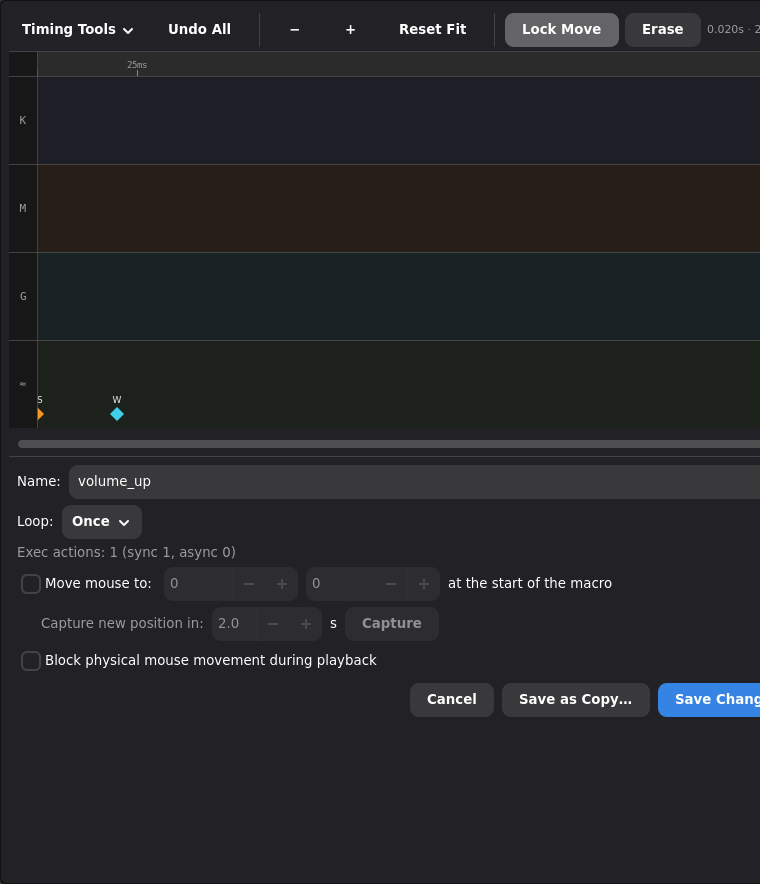
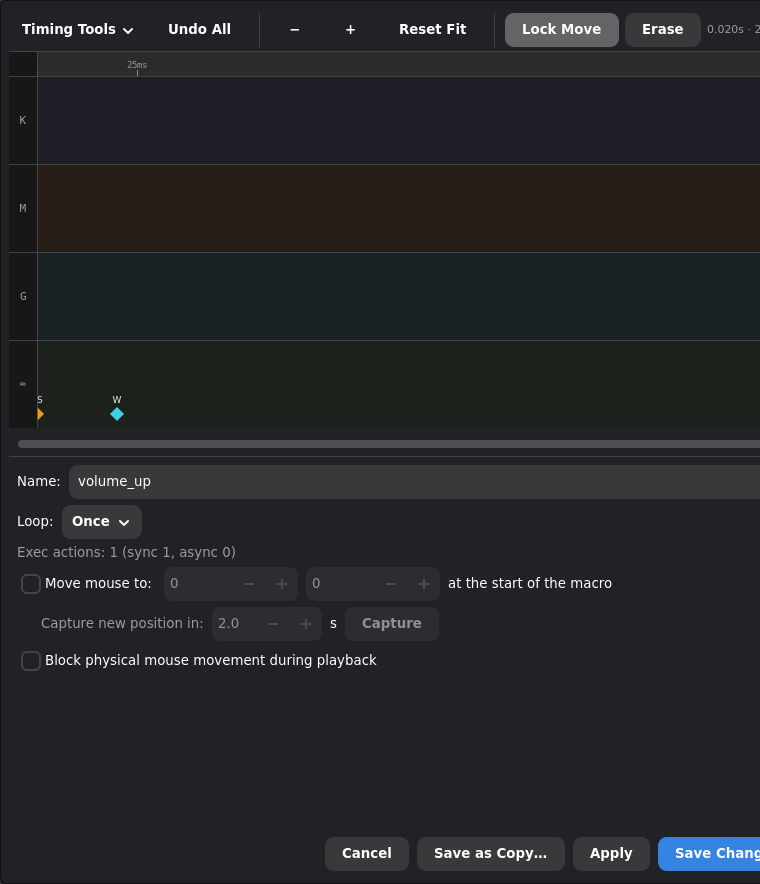
Add Apply button to macro editor for save-without-close
- Refactors save flow to support close_after_save flag
- Pins footer to bottom of side panel with vexpand spacer
- Updates docs and screenshots

diff --git a/tests/gui/test_macro_editor_dialog_widget.py b/tests/gui/test_macro_editor_dialog_widget.py
@@ -24,6 +24,7 @@ from keymasq.gui.widgets.macro_editor_dialog import (
     reconstruct_events,
 )
 from tests.gui.macro_editor_dialog_support import _build_macro_dialog
+from tests.gui.support import collect_widgets, iter_widget_children
 
 
 def _install_delayed_cursor_position_capture_harness(
@@ -705,6 +706,86 @@ def test_macro_editor_insert_delete_and_save_payload(monkeypatch) -> None:
         "macro_action": "wait",
         "duration_us": 80_000,
     } in payload["events"]
+
+
+def test_macro_editor_footer_is_pinned_and_includes_apply(monkeypatch) -> None:
+    dialog = _build_macro_dialog(monkeypatch)
+
+    frame = dialog.get_child()
+    assert isinstance(frame, Gtk.Frame)
+    root = frame.get_child()
+    children = list(iter_widget_children(root))
+    footer_spacer = children[-2]
+    footer = children[-1]
+
+    assert footer_spacer.get_vexpand() is True
+    assert footer.get_halign() == Gtk.Align.END
+    assert [
+        button.get_label()
+        for button in collect_widgets(footer, Gtk.Button, include_self=True)
+    ] == ["Cancel", "Save as Copy…", "Apply", "Save Changes"]
+
+
+def test_macro_editor_apply_saves_without_closing(monkeypatch) -> None:
+    from keymasq.gui.session_client import GuiTaskResult
+
+    dialog = _build_macro_dialog(monkeypatch)
+    dialog._macro_name = "demo_macro"
+    dialog._macro_exists = True
+    dialog._macro_data = {"name": "demo_macro", "revision": 2, "created_at": "old"}
+    dialog._duration_us = 4000
+    dialog._events = [
+        EditableEvent(
+            device_type="keyboard",
+            ev_type=evdev.ecodes.EV_KEY,
+            code=evdev.ecodes.KEY_A,
+            press_t_us=1000,
+            release_t_us=4000,
+        )
+    ]
+
+    requests: list[dict] = []
+    reloads: list[bool] = []
+    closed: list[bool] = []
+
+    def fake_session_request(payload):
+        requests.append(payload)
+        saved_macro = dict(payload["macro"])
+        saved_macro["revision"] = 3
+        return {"status": "ok", "macro": saved_macro}
+
+    def fake_run_gui_task(worker, callback, *, on_start=None, on_done=None) -> None:
+        if on_start is not None:
+            on_start()
+        callback(GuiTaskResult(value=worker()))
+        if on_done is not None:
+            on_done()
+
+    monkeypatch.setattr(macro_editor_dialog_module, "session_request", fake_session_request)
+    monkeypatch.setattr(macro_editor_dialog_module, "run_gui_task", fake_run_gui_task)
+    monkeypatch.setattr(
+        macro_editor_dialog_module,
+        "notify_session_reload_async",
+        lambda: reloads.append(True),
+    )
+    monkeypatch.setattr(
+        macro_editor_dialog_module.MacroEditorDialog,
+        "close",
+        lambda self: closed.append(True),
+    )
+
+    apply_btn = Gtk.Button(label="Apply")
+    dialog._on_apply(apply_btn)
+
+    assert requests[0]["command"] == "update_macro"
+    assert requests[0]["name"] == "demo_macro"
+    assert requests[0]["expected_revision"] == 2
+    assert dialog._macro_data["revision"] == 3
+    assert dialog._initial_macro_data["revision"] == 3
+    assert dialog._macro_name == "demo_macro"
+    assert reloads == [True]
+    assert closed == []
+    assert apply_btn.get_sensitive() is True
 
 
 def test_macro_editor_save_request_paths_and_undo(monkeypatch) -> None:

diff --git a/keymasq/gui/widgets/macro_editor/dialog.py b/keymasq/gui/widgets/macro_editor/dialog.py
@@ -715,7 +715,13 @@ class MacroEditorDialog(Adw.Dialog, MacroEditorPanelsMixin, MacroEditorAddPopove
     # Save / Save as copy
     # ------------------------------------------------------------------
 
-    def _on_save(self, btn) -> None:
+    def _on_save(self, btn: Gtk.Button) -> None:
+        self._save_current_macro(btn, close_after_save=True)
+
+    def _on_apply(self, btn: Gtk.Button) -> None:
+        self._save_current_macro(btn, close_after_save=False)
+
+    def _save_current_macro(self, btn: Gtk.Button, *, close_after_save: bool) -> None:
         new_name = self._name_entry.get_text().strip()
         if not self._validate_name_for_save(new_name):
             return
@@ -727,7 +733,12 @@ class MacroEditorDialog(Adw.Dialog, MacroEditorPanelsMixin, MacroEditorAddPopove
             return self._save_macro_request(new_name, macro_payload, revision)
 
         def on_save_finished(result: GuiTaskResult[JsonDict | None]) -> bool:
-            return self._on_save_finished(result, new_name)
+            return self._on_save_finished(
+                result,
+                new_name,
+                macro_payload,
+                close_after_save=close_after_save,
+            )
 
         def on_save_start() -> None:
             btn.set_sensitive(False)
@@ -782,15 +793,38 @@ class MacroEditorDialog(Adw.Dialog, MacroEditorPanelsMixin, MacroEditorAddPopove
         self,
         result: GuiTaskResult[JsonDict | None],
         requested_name: str,
+        requested_payload: dict,
+        *,
+        close_after_save: bool,
     ) -> bool:
         payload = result.value if result.ok and isinstance(result.value, dict) else {}
         if payload.get("status") != "ok":
             self._show_name_conflict(requested_name)
             return False
 
+        self._apply_saved_macro_state(payload, requested_name, requested_payload)
         notify_session_reload_async()
-        self.close()
+        if close_after_save:
+            self.close()
         return False
+
+    def _apply_saved_macro_state(
+        self,
+        save_response: JsonDict,
+        requested_name: str,
+        requested_payload: dict,
+    ) -> None:
+        saved_macro = save_response.get("macro")
+        if not isinstance(saved_macro, dict):
+            saved_macro = dict(requested_payload)
+
+        self._macro_data = copy.deepcopy(saved_macro)
+        saved_name = str(saved_macro.get("name", requested_name) or requested_name)
+        self._macro_name = saved_name
+        self._macro_exists = True
+        self._initial_macro_data = copy.deepcopy(saved_macro)
+        _set_entry_text_if_needed(self._name_entry, saved_name)
+        self.set_title(f"Edit macro ({saved_name})")
 
     def _on_save_as_copy(self, btn) -> None:
         dialog = Adw.Dialog(title="Save as Copy", content_width=360)

diff --git a/keymasq/gui/widgets/macro_editor/panels.py b/keymasq/gui/widgets/macro_editor/panels.py
@@ -100,6 +100,9 @@ class MacroEditorPanelsMixin:
         root.append(Gtk.Separator())
         root.append(self._build_property_panel())
         root.append(self._build_name_row())
+        footer_spacer = Gtk.Box()
+        footer_spacer.set_vexpand(True)
+        root.append(footer_spacer)
         root.append(self._build_footer())
 
         frame = Gtk.Frame()
@@ -728,6 +731,10 @@ class MacroEditorPanelsMixin:
         copy_btn = Gtk.Button(label="Save as Copy…")
         copy_btn.connect("clicked", self._on_save_as_copy)
         footer.append(copy_btn)
+
+        apply_btn = Gtk.Button(label="Apply")
+        apply_btn.connect("clicked", self._on_apply)
+        footer.append(apply_btn)
 
         save_btn = Gtk.Button(label="Save Changes")
         save_btn.add_css_class("suggested-action")

diff --git a/docs/MACROS.md b/docs/MACROS.md
@@ -309,6 +309,8 @@ You can:
 - Insert wait controls.
 - Insert compositor actions.
 - Use timing tools to trim, scale, or adjust gaps.
+- Click **Apply** to save without closing the editor, or **Save Changes** to
+  save and close it.
 
 ### Event Types
 
